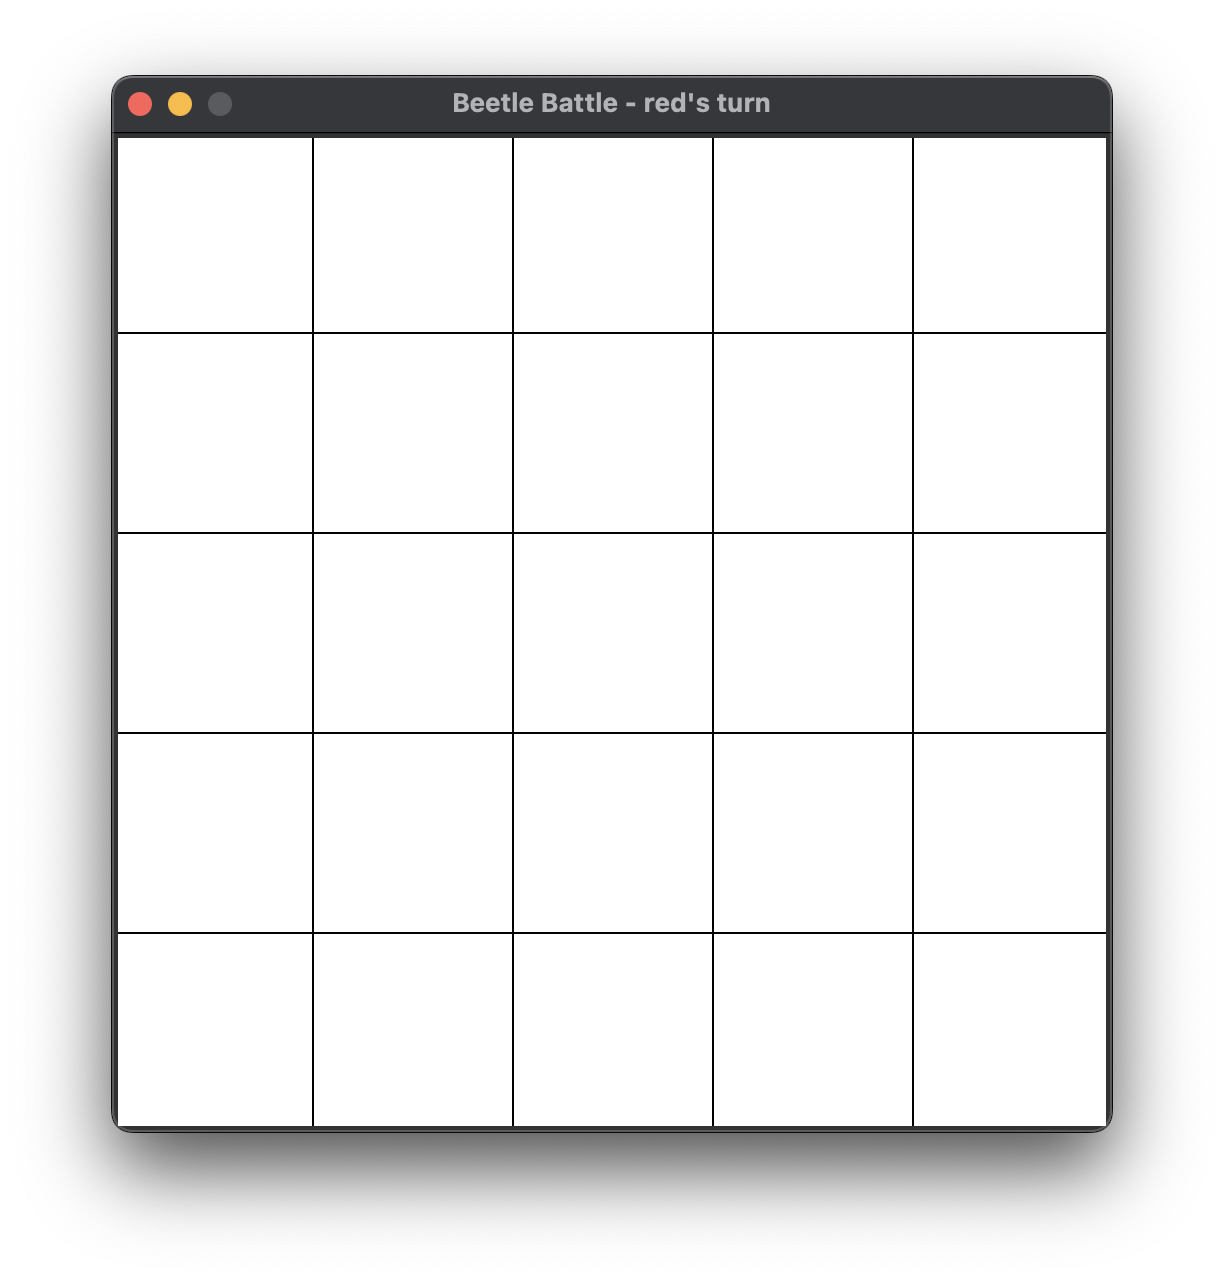
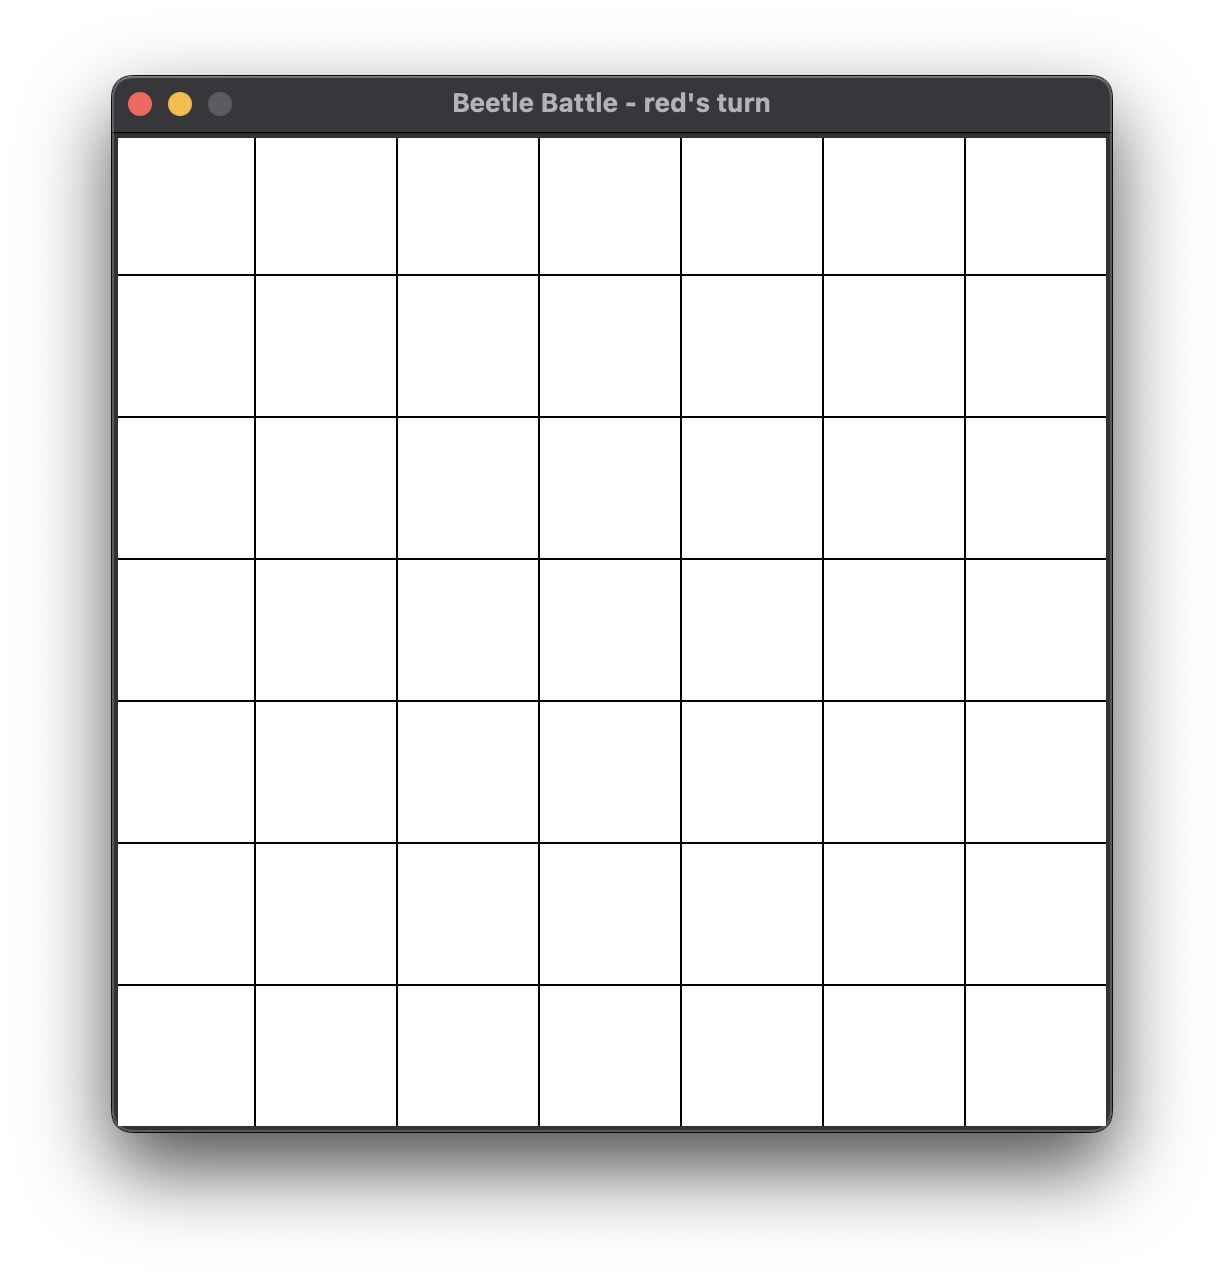
Manual update

diff --git a/manual/manual.md b/manual/manual.md
@@ -16,11 +16,11 @@ With beetles jumping onto already occupied squares, the maximum capacity of thes
 ## Board
 
 ### Dimension
-The gameplay takes place on an $n \times n$ board with $n$ being the _dimension_ which can be set to 3, 4, 5, or 10.
+The gameplay takes place on an $n \times n$ board with $n$ being the _dimension_ which can be set to 3, 5, 7, 9, or 11.
 
 The dimension determines the grid of squares as shown in the screenshots below.
 
-<img src="./figures/fig_06.png" height="200"><img src="./figures/fig_07.png" height="200"><img src="./figures/fig_08.png" height="200"><img src="./figures/fig_09.png" height="200">
+<img src="./figures/fig_06.png" height="200"><img src="./figures/fig_07.png" height="200"><img src="./figures/fig_08.png" height="200"><img src="./figures/fig_09.png" height="200"><img src="./figures/fig_24.png" height="200">
 
 The dimension can be selected in the menu under the "Board" menu item.
 
@@ -84,12 +84,14 @@ move_number,color,row,column
 13,red,1,0
 ```
 ## References and acknowledgements
-Beetle Battle is a stylized version of an old game concept. It shares shares similarities with the classic board games Go and Othello (also known as Reversi).
+Beetle Battle is a stylized version of an old game concept called "EXPLOSION" as first encountered by the author around 1984 in an old book with BASIC programs for the [TI99/4A](https://en.wikipedia.org/wiki/TI-99/4A) called ["Terrific games for the TI99/4A"](https://archive.org/details/tibook_terrific-games-for-the-ti994a/page/n78/mode/1up).
+
+As a board game there are similarities with the classic board games Go and Othello (also known as Reversi) but due to its dynamics (i.e. the cascade of juming beetles that will occur), it is only practically playable on a computer.
 
 It is also offered as the game "Chain Reaction" for Android by Buddy Matt Entertainment ([Google Play Store](https://play.google.com/store/apps/details?id=com.BuddyMattEnt.ChainReaction&pcampaignid=web_share)). In this mobile game players place their orbs in a cell. Once a cell has reached critical mass the orbs explode into the surrounding cells adding an extra orb and claiming the cell for the player. A cell is critical if the orbs equal the number of surrounding cells.
 
-It was also implemented in Python many years ago ([GitHub repository](https://github.com/Agnishom/ChainReactionAI)). The author also describes a heuristic strategy ([brilliant.org/wiki/chain-reaction-game](https://brilliant.org/wiki/chain-reaction-game/)).
+"Chain reaction" was also implemented in Python many years ago ([GitHub repository](https://github.com/Agnishom/ChainReactionAI)). The author also describes a heuristic strategy ([brilliant.org/wiki/chain-reaction-game](https://brilliant.org/wiki/chain-reaction-game/)).
 
 An _heuristic strategy_ refers to a set of guidelines or principles used by a player to make decisions during the game, especially in situations where calculating the optimal move is too complex or time-consuming. Heuristics in games are often simpler, rule-of-thumb strategies that help players make good (though not necessarily optimal) choices quickly.
 
-For Beetle Battle a heurist strategy is required because of the _[combinatorial explosion](https://en.wikipedia.org/wiki/Combinatorial_explosion)_ of the set of possible moves each turn. 
+For Beetle Battle a heurist strategy is required because of the _[combinatorial explosion](https://en.wikipedia.org/wiki/Combinatorial_explosion)_ of the set of possible moves each turn.
